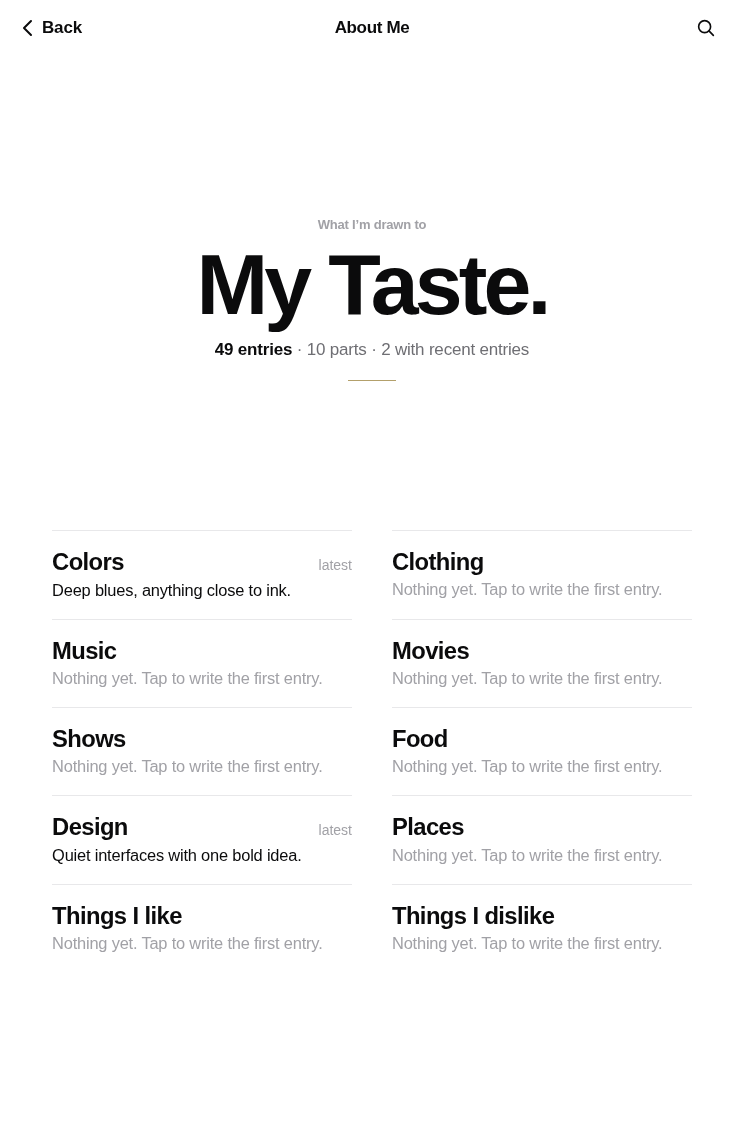
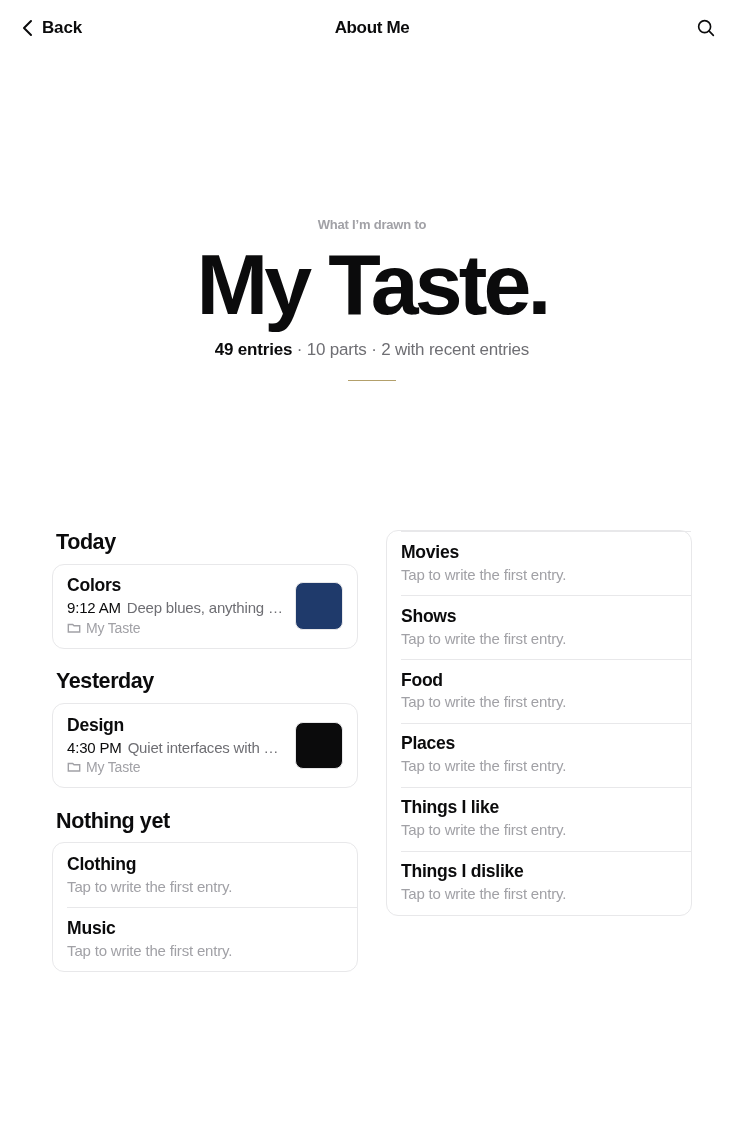
Show section topics as a Notes-style grouped list
Topics are grouped by when they were last written in, in rounded cards
with bold titles, a time and snippet line, the section with a folder
icon, and optional tiles, flowing across columns to keep one screen.

Claude-Session: https://claude.ai/code/session_01B2jaZ1SNYJtGLSRg6z58ic

diff --git a/index.html b/index.html
@@ -191,14 +191,28 @@ p { margin: 0; }
 
 /* ── Chapter page: same one-screen composition ───────── */
 .statement .eyebrow { font: 600 13px/1.2 var(--sans); color: var(--faint); }
-.parts { display: grid; grid-template-columns: repeat(2, minmax(0, 1fr)); column-gap: 40px; align-content: center; }
-.pt { display: grid; align-content: start; gap: 3px; min-width: 0; padding-block: clamp(10px, 1.5vh, 22px); border-top: 1px solid var(--rule); }
-.pt .top { display: flex; justify-content: space-between; align-items: baseline; gap: 12px; }
-.pt h2 { font: 700 clamp(18px, 2.1vh, 28px)/1.15 var(--sans); letter-spacing: -.025em; }
-.pt p { font: 500 clamp(14px, 1.45vh, 18px)/1.4 var(--sans); color: var(--muted);
-  display: -webkit-box; -webkit-line-clamp: 2; -webkit-box-orient: vertical; overflow: hidden; }
-.pt p.entry { color: var(--ink); }
-.pt p.empty { color: var(--faint); }
+/* Topics as a Notes-style list: date groups, rounded card, three-line rows */
+.notes { align-self: center; width: 100%; max-width: 760px; justify-self: center; }
+.ngroup { margin-bottom: clamp(12px, 1.8vh, 22px); }
+.ngroup h2 { break-after: avoid; font: 700 clamp(18px, 1.9vh, 22px)/1.2 var(--sans); letter-spacing: -.02em; margin: 0 0 8px 4px; }
+.ncard { border: 1px solid var(--rule); border-radius: 12px; background: var(--bg); -webkit-box-decoration-break: clone; box-decoration-break: clone; }
+.note { break-inside: avoid; display: flex; align-items: center; gap: 12px; padding: clamp(7px, .95vh, 12px) 14px; position: relative; min-width: 0; }
+.note + .note::before { content: ""; position: absolute; top: 0; left: 14px; right: 0; height: 1px; background: var(--rule); }
+.note:hover { background: var(--hover); border-radius: 11px; }
+.note .txt { flex: 1; min-width: 0; display: grid; gap: 1px; }
+.note h3 { font: 700 clamp(15px, 1.55vh, 18px)/1.25 var(--sans); letter-spacing: -.015em; white-space: nowrap; overflow: hidden; text-overflow: ellipsis; }
+.note .l2 { font: 400 clamp(13px, 1.35vh, 15px)/1.3 var(--sans); color: var(--muted); white-space: nowrap; overflow: hidden; text-overflow: ellipsis; }
+.note .l2 b { font-weight: 500; color: var(--ink); margin-right: 6px; }
+.note .l2.empty { color: var(--faint); }
+.note .l3 { display: flex; align-items: center; gap: 5px; font: 400 clamp(12px, 1.25vh, 14px)/1.3 var(--sans); color: var(--faint); }
+.note .l3 svg { width: 14px; height: 14px; stroke: currentColor; fill: none; stroke-width: 1.6; }
+.note .thumb { flex: none; width: clamp(36px, 4.2vh, 48px); aspect-ratio: 1; border-radius: 8px; border: 1px solid var(--rule); }
+@media (min-width: 700px) {
+  .notes { max-width: none; columns: 2; column-gap: 28px; }
+}
+@media (orientation: landscape) and (min-width: 900px) {
+  .notes { columns: 3; column-gap: 24px; }
+}
 
 /* ── Drawer + search sheet ──────────────────────────────── */
 .scrim { position: fixed; inset: 0; z-index: 40; background: rgba(0, 0, 0, .25); opacity: 0; pointer-events: none; transition: opacity .25s; }
@@ -314,6 +328,15 @@ const chapters = [
       ["Timeline", null, null], ["Old Thoughts", null, null], ["Memories", null, null], ["Past Versions of Me", null, null]] },
 ];
 
+/* When each topic was last written in (sample), and optional thumbnails */
+const when = {
+  "myself/Personality": "Today 9:40 AM", "myself/Values": "Yesterday 8:15 PM", "myself/Standards": "Sep 24", "myself/Perspectives": "Sep 12",
+  "life/Career": "Today 11:02 AM", "taste/Colors": "Today 9:12 AM", "taste/Design": "Yesterday 4:30 PM", "people/Friends": "Today 8:05 AM",
+  "mind/Ideas": "Yesterday 10:47 PM", "mind/Realizations": "Sep 20", "appearance/Style": "Sep 26", "routines/Mornings": "Today 7:30 AM",
+  "little/Small joys": "Yesterday 7:02 AM", "history/Decisions": "Sep 18",
+};
+const thumbs = { "taste/Colors": "#1F3A6B", "taste/Design": "#0B0B0C", "appearance/Style": "#3A3A3F" };
+
 const thread = { topic: "Friendships", chapter: "people", steps: [
   { date: "Feb 2026", quote: "I want to make new friends." },
   { date: "May 2026", quote: "I’ve actually started making friends." },
@@ -372,6 +395,18 @@ function nowHTML() {
   </div>`;
 }
 
+function noteGroups(c) {
+  const order = ["Today", "Yesterday", "Earlier", "Nothing yet"];
+  const groups = Object.fromEntries(order.map(k => [k, []]));
+  for (const [name, desc, entry] of c.parts) {
+    const key = `${c.id}/${name}`, w = entry ? when[key] || "Earlier" : null;
+    const label = !entry ? "Nothing yet" : w.startsWith("Today") ? "Today" : w.startsWith("Yesterday") ? "Yesterday" : "Earlier";
+    const stamp = w ? w.replace(/^(Today|Yesterday) /, "") : "";
+    groups[label].push({ name, desc, entry, stamp, thumb: thumbs[key] });
+  }
+  return order.filter(k => groups[k].length).map(k => ({ label: k, rows: groups[k] }));
+}
+
 function chapterHTML(c) {
   const filled = c.parts.filter(p => p[2]).length;
   return `<div class="home chapter-page">
@@ -381,11 +416,17 @@ function chapterHTML(c) {
       <p class="sub"><b>${c.entries} entries</b> · ${c.parts.length} parts · ${filled} with recent entries</p>
     </header>
 
-    <section class="parts" aria-label="Parts of ${esc(c.title)}">
-      ${c.parts.map(([name, desc, entry]) => `<a class="pt" href="#${c.id}">
-        <div class="top"><h2>${esc(name)}</h2><span class="meta">${entry ? "latest" : ""}</span></div>
-        ${entry ? `<p class="entry">${esc(entry)}</p>` : desc ? `<p>${esc(desc)}</p>` : `<p class="empty">Nothing yet. Tap to write the first entry.</p>`}
-      </a>`).join("")}
+    <section class="notes" aria-label="Topics in ${esc(c.title)}">
+      ${noteGroups(c).map(g => `<div class="ngroup"><h2>${g.label}</h2><div class="ncard">
+        ${g.rows.map(r => `<a class="note" href="#${c.id}">
+          <div class="txt">
+            <h3>${esc(r.name)}</h3>
+            ${r.entry ? `<p class="l2"><b>${esc(r.stamp)}</b>${esc(r.entry)}</p>` : `<p class="l2 empty">${esc(r.desc || "Tap to write the first entry.")}</p>`}
+            ${r.entry ? `<p class="l3"><svg viewBox="0 0 16 16"><path d="M1.5 4.5v8h13v-7h-6.5l-1.5-1.5h-5z"/></svg>${esc(c.title)}</p>` : ""}
+          </div>
+          ${r.thumb ? `<span class="thumb" style="background:${r.thumb}"></span>` : ""}
+        </a>`).join("")}
+      </div></div>`).join("")}
     </section>
 
   </div>`;

diff --git a/DESIGN.md b/DESIGN.md
@@ -51,7 +51,7 @@ Right Now has its own page (`#now`): the statement **Right now.**, then the four
 They use the same composition as home, so every page feels like the same book:
 
 1. **Opening**: the tagline in small grey ("What I'm drawn to"), the chapter title as the statement (**My Taste.**), then "49 entries · 10 parts · 2 with recent entries" and the gold hairline.
-2. **Parts**: a 2-column grid (up to 10 parts, 5 rows). Each part has its name in bold and one line under it: the latest entry in black, or its description in grey, or "Nothing yet. Tap to write the first entry." in light grey. Clamped to 2 lines.
+2. **Topics, as a Notes-style list**: grouped by when you last wrote in them (**Today**, **Yesterday**, **Earlier**, **Nothing yet**), each group a rounded card with hairline separators. A row with an entry shows the topic in bold, then the time and the latest entry on one line, then a folder icon and the section name, with an optional square tile on the right (e.g. a colour swatch). An empty topic shows two lines: the name and "Tap to write the first entry." The groups flow across 2 columns in portrait and 3 in landscape, continuing a long group into the next column, so the page never scrolls.
 3. **No What changed.** It appears only on the home screen. Section pages show just their title and parts, full width, in both orientations.
 
 Verified with no overflow on all 9 chapters, Right Now and home at 1200×1600, 1600×1200, iPad mini, 11" and 13" in both orientations, and a 1000×744 split-view window.
